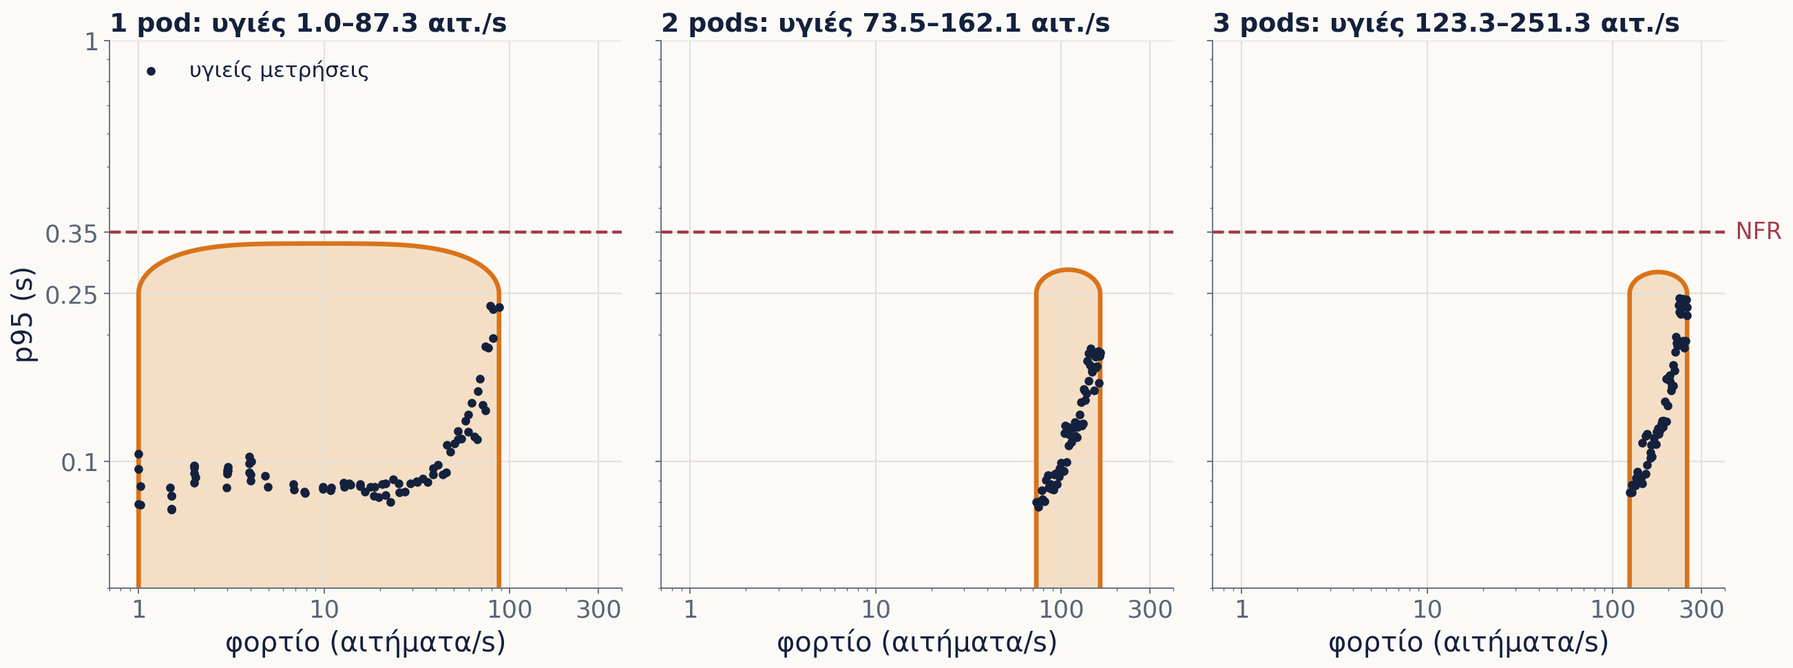
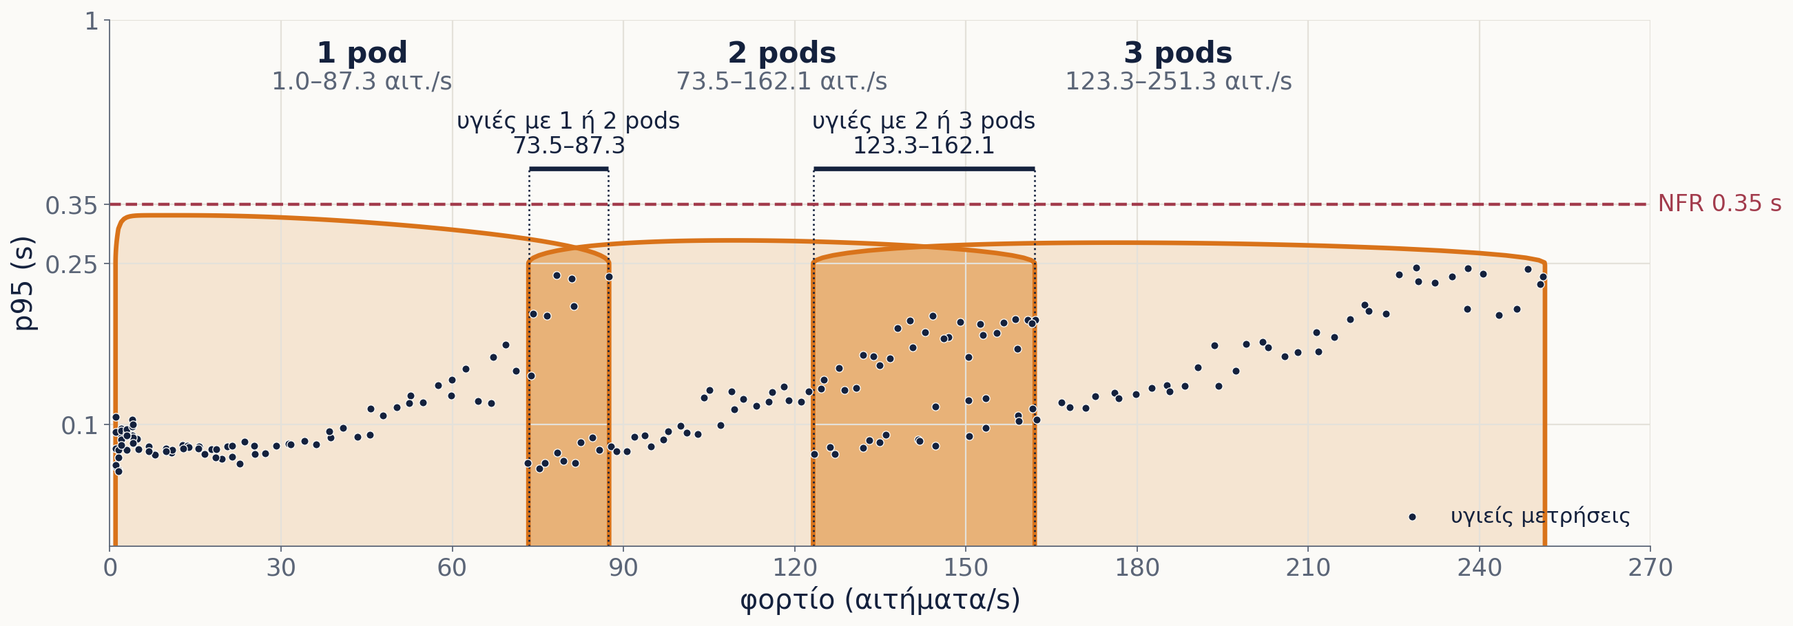
Study guide: theory for the defense (s12) and how each version is tested (s9.5); defense Q&A G7a (prompt injection); the SVM bands figure on one load axis with the overlaps shaded
- study_guide.md s12 (new): MAPE-K, queueing theory with the capacity numbers (1 pod breaks at ~83% CPU), OCSVM theory
  (novelty vs outlier, nu, SVDD, gamma as bias/variance) with an 8-point example worked by hand next to the Isolation
  Forest, ReAct / CodeAct / RAG, prompt injection, dead time and hysteresis, what the p-values say (one-sided, 1/70 the
  smallest possible), threats to validity; the glossary becomes s13 with 7 new terms.
- study_guide.md s9.5 (new): the 8 steps of checks for a new version and which version (v9-v14) passed which.
- defense_qa.md G7a (new): prompt injection through the logs; limited by the guards in code; not tested.
- svm_map.png: one panel, a linear load axis, the overlaps 73.5-87.3 and 123.3-162.1 rps shaded (the slide updated).
- design_decisions.md: the official thesis title next to the root README's "Multi-Agent Systems".
- archive/memory_tests_2026-11-09.sh: the optional memory experiment of 9/11, written then and never run.
- Worklog 14/11 and 17/11.

diff --git a/thesis_notes/figures/make_presentation_figures.py b/thesis_notes/figures/make_presentation_figures.py
@@ -6,7 +6,8 @@ Figures of the v14 presentation (2026-11-08): each one backs a design choice of 
                           why the NFRs are measured at the ingress
   if_vs_ocsvm.png         Isolation Forest (raw features) against the deployed One-Class SVM on the same 210 healthy
                           readings, along the load and along the latency of 1 pod: why the SVM
-  svm_map.png             what the SVM calls healthy for 1 / 2 / 3 pods (load x p95), with the training readings
+  svm_map.png             what the SVM calls healthy for 1 / 2 / 3 pods (load x p95) on one load axis, the overlaps of
+                          the bands shaded, with the training readings
   gamma_hills.png         what gamma is: the support vectors of 1 pod as hills along the load, their sum against the
                           threshold, for gamma 0.1 (2 wide hills) and 1.0 (11 narrow ones, 3 holes)
   gamma_choice.png        why gamma 0.1, both sides on 1 pod: holes in the band from gamma 0.2 up (A31), and the p95
@@ -47,6 +48,7 @@ NORMAL = ("eval_llm_20261108_1443", "eval_hpa_20261108_1527")
 
 INK, MUTED, BG, GRID = "#14213D", "#5B6577", "#FBFAF7", "#E4E1DA"
 AGENT, HPA, NFR_C, FILL = "#D9731A", "#3A6EA5", "#A23B4C", "#F4DFC6"
+OVERLAP = "#E8B278"   # healthy with either of two pod counts (svm_map.png): FILL's hue, darker
 PODS_C = {1: "#9DB4D3", 2: "#5F86B8", 3: "#2F5C94", 4: INK}
 
 plt.rcParams.update({
@@ -223,33 +225,48 @@ def fig_if_vs_ocsvm():
 
 # --- what the SVM calls healthy --------------------------------------------------------------------------------------
 def fig_svm_map():
-    loads = np.geomspace(0.7, 400, 260)
-    lats = np.geomspace(0.05, 1.0, 220)
+    """One panel, a common linear load axis: the three healthy regions drawn over each other, so the overlap of the
+    bands is seen (until 2026-11-14 three panels on a log axis, where it had to be read from the titles)."""
+    x_max, y_lo, y_hi = 270.0, 0.05, 1.0
+    loads = np.linspace(0.5, x_max, 540)
+    lats = np.geomspace(y_lo, y_hi, 220)
     L, P = np.meshgrid(loads, lats)
-    fig, axes = plt.subplots(1, 3, figsize=(16.6, 6.4), sharey=True)
-    for ax, n in zip(axes, (1, 2, 3)):
+    fig, ax = plt.subplots(figsize=(16.6, 6.0))
+    band, inside = {}, {}
+    for n in (1, 2, 3):
         grid = pd.DataFrame({"throughput": L.ravel(), "latency_p95": P.ravel(), "error_rate": 0.0, "replicas": float(n)})
         d = hm.decision(bundle, grid).reshape(L.shape)
-        ax.contourf(L, P, d >= 0, levels=[0.5, 1.5], colors=[FILL])
+        inside[n] = d >= 0
+        ax.contourf(L, P, inside[n], levels=[0.5, 1.5], colors=[FILL], alpha=0.75)
         ax.contour(L, P, d, levels=[0], colors=[AGENT], linewidths=3)
-        h = health[health["replicas"] == n]
-        ax.scatter(h["throughput"], h["latency_p95"], s=22, color=INK, zorder=3, label="υγιείς μετρήσεις")
-        ax.set_xscale("log")
-        ax.set_yscale("log")
-        ax.set_xlim(0.7, 400)
-        ax.set_ylim(0.05, 1.0)
-        ax.set_xticks([1, 10, 100, 300])
-        ax.set_xticklabels(["1", "10", "100", "300"])
-        ax.set_yticks([0.1, 0.25, 0.35, 1.0])
-        ax.set_yticklabels(["0.1", "0.25", "0.35", "1"])
-        lo, hi = bundle["bands"][n] if n in bundle["bands"] else (np.nan, np.nan)
         iv = thb.intervals(bundle, n)
-        ax.set_title(f"{n} pod{'s' if n > 1 else ''}: υγιές {iv[0][0]:.1f}–{iv[-1][1]:.1f} αιτ./s", fontsize=17)
-        ax.axhline(nfr.NFR_P95, color=NFR_C, ls="--", lw=2)
-        ax.set_xlabel("φορτίο (αιτήματα/s)")
-    axes[0].set_ylabel("p95 (s)")
-    axes[0].legend(loc="upper left", fontsize=14)
-    axes[2].text(420, nfr.NFR_P95, " NFR", color=NFR_C, va="center", fontsize=15)
+        band[n] = (iv[0][0], iv[-1][1])
+        ax.text(sum(band[n]) / 2, 0.76, f"{n} pod{'s' if n > 1 else ''}", ha="center", va="bottom", fontsize=19,
+                fontweight="bold")
+        ax.text(sum(band[n]) / 2, 0.75, f"{band[n][0]:.1f}–{band[n][1]:.1f} αιτ./s", ha="center", va="top", fontsize=16,
+                color=MUTED)
+    ax.scatter(health["throughput"], health["latency_p95"], s=26, color=INK, edgecolor=BG, linewidth=0.6, zorder=3,
+               label="υγιείς μετρήσεις")
+    for n in (1, 2):                                                               # the overlap of n and n + 1 pods
+        lo, hi = band[n + 1][0], band[n][1]
+        ax.contourf(L, P, inside[n] & inside[n + 1], levels=[0.5, 1.5], colors=[OVERLAP], zorder=1.5)
+        for x in (lo, hi):
+            ax.plot([x, x], [y_lo, 0.43], color=INK, lw=1.2, ls=":", zorder=2)
+        ax.plot([lo, hi], [0.43, 0.43], color=INK, lw=3, solid_capstyle="butt", zorder=4)
+        ax.text((lo + hi) / 2, 0.455, f"υγιές με {n} ή {n + 1} pods\n{lo:.1f}–{hi:.1f}", ha="center", va="bottom",
+                fontsize=15, linespacing=1.15)
+    ax.set_yscale("log")
+    ax.set_xlim(0, x_max)
+    ax.set_ylim(y_lo, y_hi)
+    ax.set_xticks(range(0, 271, 30))
+    ax.set_yticks([0.1, 0.25, 0.35, 1.0])
+    ax.set_yticklabels(["0.1", "0.25", "0.35", "1"])
+    ax.minorticks_off()
+    ax.axhline(nfr.NFR_P95, color=NFR_C, ls="--", lw=2)
+    ax.text(x_max, nfr.NFR_P95, " NFR 0.35 s", color=NFR_C, va="center", fontsize=15)
+    ax.set_xlabel("φορτίο (αιτήματα/s)")
+    ax.set_ylabel("p95 (s)")
+    ax.legend(loc="lower right", fontsize=14)
     fig.tight_layout()
     save(fig, "svm_map.png")
 

diff --git a/thesis_notes/study_guide.md b/thesis_notes/study_guide.md
@@ -661,6 +661,35 @@ Rare requests: none; every endpoint called in the window (14610 requests) is par
   τον κρίνει (κάθε ενέργεια STABLE, κανένα crash, τα σφάλματα ανακάμπτουν με restart, καμία μπαταρία), και ένα FAIL σταματά την
   καμπάνια.
 
+### 9.5 Πώς ελέγχεται μια νέα έκδοση πριν από την καμπάνια
+Κάθε έκδοση περνά από σκαλοπάτια, από τα φθηνά (χωρίς cluster, χωρίς LLM) στα ακριβά. Τα κριτήρια κάθε σκαλοπατιού γράφονται
+στο `design_decisions.md` **πριν** τρέξει ο έλεγχος.
+
+| # | Έλεγχος | Τι απαντά | Εργαλείο | Κλήσεις LLM |
+|---|---|---|---|---|
+| 1 | Unit tests (107) | κάνει κάθε κομμάτι αυτό που λέει; κόβουν οι φραγμοί τα λάθη που έκανε το LLM σε μετρημένα runs της φάσης 1; | `pytest 3-ai-agent/tests` | 0 (όλα mocked) |
+| 2 | Έλεγχοι του μοντέλου | 34 probes-εύρη, μονοτονία, ψευδείς αφυπνίσεις σε held-out· ο δηλωμένος κανόνας επιλογής του γ | `train_health_baseline.py` | 0 |
+| 3 | Replay offline | ο νέος detector, η επαλήθευση και τα ελάχιστα pods πάνω στις καταγεγραμμένες σειρές των προηγούμενων καμπανιών και επικυρώσεων, δίπλα στην προηγούμενη έκδοση | `replay_model.py`, `replay_v13.py` | 0 |
+| 4 | Ζωντανή επικύρωση του detector | φάσεις A–I (κανονικό, υπερφόρτωση, σπατάλη) σε dry-run, χωρίς agent: πιάνει κάθε φάση ανωμαλίας; ξυπνά ψευδώς στις κανονικές; | `detector_validation.sh` + `analyze_validation.py` | 0 |
+| 5 | Αξιολόγηση του prompt (v14) | παλιό και νέο prompt με το πραγματικό LLM σε 43 καταγεγραμμένες αφυπνίσεις, με mocked cluster | `prompt_eval.py` | ναι |
+| 6 | Smoke / πρώτος γύρος | ένα run ανά σενάριο: κάθε ενέργεια STABLE, κανένα crash, ανάκαμψη με restart, καμία μπαταρία | `smoke_gate.py` | ναι |
+| 7 | Καμπάνια | 4 + 4 runs ανά σενάριο, εναλλάξ με το HPA (§9.4) | `full_campaign.sh` → `compare_results.py`, `campaign_report.py` | ~120–200 |
+| 8 | Έλεγχος μετά | κάθε νούμερο ξαναϋπολογισμένο από τα CSV | Α34, 10/11 | 0 |
+
+Ποια έκδοση πέρασε από πού:
+
+| Έκδοση | Τι άλλαξε | Έλεγχος πριν από την καμπάνια | Καμπάνια (σφάλματα· κόστος agent έναντι HPA) |
+|---|---|---|---|
+| v9 | NFR στο ingress, ένα SVM | επικύρωση 23/10: 4/4 φάσεις (52–75 s), 0 ψευδείς | 23/10: 7/8· 71.5 έναντι 76.3 |
+| v10 | οι NFR μέσα στο μοντέλο, score ως απόσταση | replay (`replay_v10.md`)· επικύρωση 26/10: 4/4 (52–84 s), 0 | 26/10: 8/8· 72.3 έναντι 76.1 |
+| v11 | μονάδες από τις NFR, μόνη επιλογή το γ | replay· επικύρωση 27/10: 4/4 (52–75 s), 0 | 28/10: 10/10· 72.1 έναντι 76.0 |
+| v12 | probes-εύρη, 1 pod σε αδράνεια, γ 0.1 | 34/34 probes· replay σε 3 καμπάνιες· ζωντανοί έλεγχοι | 1/11: 8/8· 72.2 έναντι 76.4 |
+| v13 | detector και επαλήθευση μόνο με δεδομένα μετά την αλλαγή | replay: 113/113 σωστές ενέργειες STABLE· επικύρωση 3/11: 4/4, 0· smoke runs | καμία· μετρήθηκε ο v14 |
+| v14 | prompt, 2 εργαλεία παρατήρησης, όριο 60 s | prompt eval: σωστή ενέργεια 94.0% και στα δύο prompt, αποτυχίες μορφής 1 έναντι 5· πρώτος γύρος με gate | 8/11: 8/8· 71.6 έναντι 77.4 |
+
+**Τι συγκρίνεται δίκαια:** agent και HPA **μέσα στην ίδια καμπάνια** (ίδιο μηχάνημα, ίδια μέρα, εναλλάξ). Δύο εκδόσεις του agent
+μετρήθηκαν σε διαφορετικές μέρες, με διαφορετική ταχύτητα του παρόχου LLM, άρα η σύγκρισή τους δεν είναι ελεγχόμενη.
+
 ---
 
 ## 10. Χάρτης κώδικα (τι να διαβάσεις, με τη σειρά)
@@ -700,7 +729,141 @@ Rare requests: none; every endpoint called in the window (14610 requests) is par
 
 ---
 
-## 12. Γλωσσάρι
+## 12. Θεωρία που μπορεί να σου ζητήσουν
+Τα πλαίσια και οι όροι πίσω από τις επιλογές. Για το καθένα: η θεωρία, πού είναι στο σύστημα, και τι να προσέξεις. Οι
+αναφορές είναι για τη βιβλιογραφία της διπλωματικής.
+
+### 12.1 MAPE-K: πού ανήκει το σύστημα
+- **Θεωρία:** το μοντέλο του autonomic computing (Kephart & Chess, *The Vision of Autonomic Computing*, IEEE Computer, 2003).
+  Ένα σύστημα που διαχειρίζεται τον εαυτό του τρέχει έναν βρόχο τεσσάρων βημάτων πάνω σε κοινή γνώση. Στόχοι: self-healing,
+  self-optimizing, self-configuring, self-protecting.
+- **Στο σύστημα:**
+
+  | MAPE-K | Εδώ |
+  |---|---|
+  | **M**onitor | ο detector διαβάζει το Prometheus κάθε 10 s |
+  | **A**nalyze | το score του SVM· η έρευνα του agent με τα εργαλεία παρατήρησης |
+  | **P**lan | η απόφαση του LLM πάνω στα υπολογισμένα facts |
+  | **E**xecute | scale / restart, μέσα στους φραγμούς |
+  | **K**nowledge | ChromaDB, πίνακας χωρητικότητας (μέσα στο μοντέλο), πρόσφατες ενέργειες |
+
+  Η επαλήθευση κλείνει τον βρόχο: το αποτέλεσμα του Execute ξαναμπαίνει στο Monitor. Το scale είναι self-optimizing, το
+  restart self-healing.
+- **Πώς να το πεις:** «ένας βρόχος MAPE-K, όπου το Analyze και το Plan τα κάνει LLM, ενώ το Monitor, οι φραγμοί και η
+  επαλήθευση είναι κώδικας».
+
+### 12.2 Θεωρία ουρών: γιατί το latency σπάει απότομα
+- **Χρησιμοποίηση** ρ = λ / μ (ρυθμός αφίξεων / ρυθμός εξυπηρέτησης). Σε μία ουρά M/M/1 ο μέσος χρόνος απόκρισης είναι
+  W = S / (1 − ρ), με S τον χρόνο εξυπηρέτησης:
+
+  | ρ | W |
+  |---|---|
+  | 50% | 2 × S |
+  | 80% | 5 × S |
+  | 90% | 10 × S |
+  | 95% | 20 × S |
+
+  Αυτό είναι το «γόνατο» της καμπύλης χωρητικότητας (§4.7, `capacity.png`).
+- **Στα δικά μας νούμερα:** το Node τρέχει τη JavaScript σε ένα νήμα, άρα κάθε pod μοιάζει με μία ουρά. Στα 100 αιτ./s το
+  1 pod έκαιγε 0.82–0.83 πυρήνα, δηλαδή ~8.3 ms CPU ανά αίτημα (`capacity_discovery_log.csv`). Άρα μ ≈ 120 αιτ./s, και το
+  1 pod περνά το 0.35 s στα 100 αιτ./s με **ρ ≈ 0.83**, όχι στο 100%. Στο ασφαλές (95 αιτ./s) ήταν στα 0.75 πυρήνα.
+- **Γιατί σπάει πριν από το 100%:** για μία ουρά M/G/1 ο τύπος Pollaczek–Khinchine δίνει μέση αναμονή λ·E[S²] / (2(1 − ρ)):
+  μεγαλώνει με τη **διασπορά** του χρόνου εξυπηρέτησης, όχι μόνο με τον μέσο όρο. Η μίξη μας έχει μεγάλη διασπορά: το login
+  (bcrypt, ~71 ms) είναι το 10% των αιτημάτων και το ~70% της CPU, τα υπόλοιπα κοστίζουν λίγα ms. Ένα login μπροστά σε φθηνά
+  αιτήματα τα καθυστερεί όλα, γιατί το νήμα είναι ένα.
+- **Νόμος του Little:** L = λ × W (αιτήματα μέσα στο σύστημα = ρυθμός × χρόνος). Ισχύει για κάθε σταθερό σύστημα, χωρίς
+  υποθέσεις κατανομής (Little, 1961). Στα 57 αιτ./s με W 0.1 s είναι ~6 αιτήματα· στο cpuhog με W 1.4 s ~80.
+- **Ανοιχτό μοντέλο:** σε κλειστό μοντέλο το λ εξαρτάται από το W (οι χρήστες περιμένουν την απάντηση), άρα η υπερφόρτωση
+  ρίχνει μόνη της το φορτίο και κρύβεται (§5.1, coordinated omission).
+- **Γιατί p95 και όχι μέσος όρος:** στην ουρά η αναμονή χτυπά πρώτα την ουρά της κατανομής· ο χρήστης που περιμένει 1 s δεν
+  φαίνεται στον μέσο όρο (Dean & Barroso, *The Tail at Scale*, CACM, 2013).
+- **Τι να προσέξεις:** οι αφίξεις του k6 είναι σχεδόν ομοιόμορφες, όχι Poisson, και η εξυπηρέτηση δεν είναι εκθετική. Οι
+  τύποι εξηγούν τη **μορφή** της καμπύλης, όχι τις ακριβείς τιμές· γι' αυτό η χωρητικότητα μετρήθηκε.
+
+### 12.3 One-Class SVM: η θεωρία πίσω από το μοντέλο
+- **Novelty και outlier detection** (οι όροι του scikit-learn). Στο novelty detection εκπαιδεύεις σε καθαρά δεδομένα και ρωτάς
+  για **καινούρια** σημεία· αυτό κάνουμε. Στο outlier detection τα ανώμαλα σημεία είναι μέσα στα δεδομένα εκπαίδευσης. Το
+  OCSVM είναι ο κλασικός novelty detector· το Isolation Forest (Liu, Ting & Zhou, ICDM 2008) φτιάχτηκε για outliers: κόβει
+  ένα χαρακτηριστικό τη φορά, με κατώφλια μόνο μέσα στο εύρος των δεδομένων, άρα ένα νέο σημείο έξω από το εύρος ακολουθεί
+  το πιο ακραίο σημείο της εκπαίδευσης (§4.3).
+- **Η διατύπωση** (Schölkopf et al., *Estimating the Support of a High-Dimensional Distribution*, Neural Computation, 2001):
+  απεικονίζει τα δεδομένα σε χώρο χαρακτηριστικών και βρίσκει το υπερεπίπεδο που τα χωρίζει από την αρχή των αξόνων με το
+  μέγιστο περιθώριο. Η απόφαση είναι f(x) = Σᵢ αᵢ K(xᵢ, x) − ρ· μόνο τα support vectors έχουν αᵢ > 0.
+- **Kernel trick:** ο χώρος χαρακτηριστικών δεν υπολογίζεται ποτέ· αρκεί το K(x, y) = exp(−γ‖x − y‖²).
+- **Η ιδιότητα του ν:** πάνω όριο στο ποσοστό των δεδομένων εκπαίδευσης που μένουν έξω, κάτω όριο στο ποσοστό των support
+  vectors. Με ν 0.02 και 210 μετρήσεις: το πολύ ~4 έξω, τουλάχιστον ~4 support vectors (έχουμε 6). Το ν ορίστηκε από την
+  αρχή, δεν επιλέχθηκε με αναζήτηση: τα δεδομένα είναι φιλτραρισμένα, άρα δεν περιμένουμε ανώμαλα μέσα τους.
+- **Ισοδυναμία με SVDD** (Tax & Duin, Machine Learning, 2004): με RBF kernel (K(x, x) = 1 για κάθε x), το OCSVM είναι το ίδιο
+  με «τη μικρότερη σφαίρα που κλείνει τα δεδομένα» στον χώρο χαρακτηριστικών. Είναι ο πιο απλός τρόπος να το εξηγήσεις.
+- **Το γ ως bias και variance:** μικρό γ, φαρδιοί λόφοι, ομαλή και ανεκτική ζώνη (bias). Μεγάλο γ, στενοί λόφοι, τρύπες
+  ανάμεσα στα σημεία (variance, overfitting). Οι τρύπες του γ 0.2–1.0 είναι overfitting (`gamma_hills.png`).
+- **Επιλογή μοντέλου χωρίς ετικέτες ανωμαλιών:** τα probes είναι συνθετικές ετικέτες («αυτό πρέπει να είναι υγιές / ανώμαλο»),
+  και ο κανόνας επιλογής δηλώθηκε πριν από τα αποτελέσματα, ώστε να μη διαλέξουμε το μοντέλο που απλώς βγάζει τα καλύτερα
+  νούμερα (garden of forking paths).
+- **Ένα παράδειγμα με το χέρι** (8 υγιή σημεία: 1 pod στα 10 / 40 / 70 / 90 αιτ./s, 3 pods στα 130 / 180 / 220 / 250· είσοδοι
+  ln φορτίου και 100 × pods· γ 0.1, ν 0.25 για να φαίνονται οι αριθμοί):
+  - support vectors: (1, 10), (1, 90), (3, 130), (3, 250), με βάρη 0.547 / 0.548 / 0.455 / 0.449· ρ = 0.886·
+  - (1 pod, 40): ομοιότητα 0.825 και 0.936 με τα δύο του 1 pod, 0 με τα 3 pods (απόσταση² ≈ 200² στον άξονα των pods)·
+    άθροισμα 0.965 − 0.886 = **+0.079, υγιές**·
+  - (1 pod, 300): ομοιότητα 0.315 και 0.865· τα (3, 250) είναι σχεδόν ίδια στο φορτίο αλλά απέχουν 200 στα pods, άρα 0·
+    άθροισμα 0.646 − 0.886 = **−0.239, ανωμαλία** (score −1.78)·
+  - το Isolation Forest στα ίδια 8 σημεία στέλνει το (1 pod, 300) στο ίδιο φύλλο με το (1, 90) ή με το (3, 250), ανάλογα με
+    το ποιο χαρακτηριστικό κόψει πρώτα, και το βγάζει φυσιολογικό.
+
+### 12.4 LLM agents: ReAct, CodeAct, RAG
+- **ReAct** (Yao et al., ICLR 2023): σκέψη → ενέργεια → παρατήρηση, σε βρόχο. Αυτός είναι ο βρόχος του agent.
+- **CodeAct** (Wang et al., *Executable Code Actions Elicit Better LLM Agents*, ICML 2024): οι ενέργειες γράφονται ως κώδικας
+  Python αντί για JSON. Το `CodeAgent` του smolagents είναι αυτό. Η εναλλακτική είναι tool calling με JSON (Γ7 του
+  `defense_qa.md`).
+- **RAG** (Lewis et al., NeurIPS 2020): ανάκτηση σχετικών εγγράφων πριν από την απάντηση. Η μνήμη μας είναι RAG με
+  embedding το διάνυσμα εισόδου του μοντέλου υγείας, όχι embedding κειμένου (§6.9).
+- **Μη ντετερμινισμός:** ακόμη και με temperature 0 το ίδιο prompt μπορεί να δώσει άλλη απάντηση. Γι' αυτό η επιτυχία κρίνεται
+  από κώδικα (`run_outcome`), όχι από το κείμενο του LLM.
+- **Η αρχή του σχεδιασμού:** ό,τι πρέπει να ισχύει πάντα γίνεται κώδικας (φραγμοί, όρια, επαλήθευση)· το LLM μένει για την
+  κρίση (§11).
+
+### 12.5 Prompt injection
+- **Θεωρία:** direct injection είναι οδηγίες από τον χρήστη του LLM· **indirect** είναι οδηγίες κρυμμένες σε δεδομένα που
+  διαβάζει το LLM (Greshake et al., *Not What You've Signed Up For*, AISec 2023).
+- **Στο σύστημα:** το `get_kubernetes_logs` δείχνει τις σπάνιες αιτήσεις με το path όπως ήρθε (μόνο τα τμήματα με ψηφίο
+  γίνονται `/:id`) και παραδείγματα μηνυμάτων λάθους ως 240 χαρακτήρες. Ένας πελάτης μπορεί να γράψει κείμενο σε ένα URL.
+- **Τι το περιορίζει:** διαβάζεται μόνο σε αφυπνίσεις κατηγορίας Β (έρευνα)· οι ενέργειες είναι δεμένες σε κώδικα: σταθερό
+  namespace και deployment, 1–3 pods, ±2 ανά κλήση, cooldowns, restart μόνο αφού έτρεξαν και τα δύο εργαλεία παρατήρησης,
+  αποτυχημένο scale-down αναιρείται από κώδικα. Το χειρότερο: ένα περιττό scale μέσα στα όρια ή ένα rolling restart.
+- **Τι δεν έχει γίνει:** δεν έχει δοκιμαστεί. Απάντηση για την υποστήριξη: Γ7α του `defense_qa.md`.
+
+### 12.6 Autoscaling και έλεγχος
+- **Ο αλγόριθμος του HPA:** §8.
+- **Reactive και predictive:** και οι δύο μέθοδοι που συγκρίνουμε αντιδρούν σε ό,τι έχει ήδη συμβεί. Η αφύπνιση με πρόβλεψη
+  εξετάστηκε και απορρίφθηκε από τον χρήστη (1/11, Α31). Ο agent βλέπει την τάση του φορτίου μόνο στα ελάχιστα pods.
+- **Νεκρός χρόνος (dead time):** ένας reactive ελεγκτής δεν αντιδρά γρηγορότερα από το άθροισμα ανίχνευση (3 μετρήσεις, με
+  καθυστέρηση του παραθύρου του 1 λεπτού) + απόφαση (διάμεσος 4.5 s στον v14) + εκκίνηση pod. Αυτός είναι ο μηχανισμός της
+  κορυφής του p95 στο 1→2 (Α31).
+- **Υστέρηση (hysteresis):** οι επικαλυπτόμενες ζώνες του μοντέλου (73.5–87.3, 123.3–162.1 αιτ./s) είναι υστέρηση κατά του
+  flapping· το ίδιο κάνουν η stabilization window του HPA και τα cooldowns των εργαλείων.
+
+### 12.7 Τι λένε τα p-values σου
+Τα τεστ είναι στην §9.3. Τρία πράγματα ακόμα:
+- **Είναι one-sided.** Fisher για 8/8 έναντι 0/8: 1 / C(16, 8) = 1/12870 = 0.00008· το two-sided είναι 0.00016.
+- **Το 0.014 στο κόστος είναι το ελάχιστο δυνατό** με 4 + 4 (1/70): σημαίνει πλήρη διαχωρισμό, όχι «οριακή» σημαντικότητα.
+  Με 5 + 6 (v11) το ελάχιστο είναι 1/462 = 0.002, και αυτό βγήκε.
+- **Το p δεν λέει πόσο.** Το μέγεθος είναι −7.5% (5.8 replica-min). Και «όχι σημαντικό» δεν σημαίνει «ίδιο»: με n = 4 το
+  τεστ έχει μικρή ισχύ, άρα η παραβίαση NFR (27.5 έναντι 47.5 s) είναι αναπάντητη, όχι ίση.
+
+### 12.8 Απειλές εγκυρότητας
+Οι τέσσερις κατηγορίες της εμπειρικής τεχνολογίας λογισμικού (Wohlin et al., *Experimentation in Software Engineering*,
+Springer, 2012), με τα δικά μας όρια και τι κάναμε γι' αυτά:
+
+| Κατηγορία | Το όριο | Τι κάναμε |
+|---|---|---|
+| Εσωτερική (μετράμε αυτό που νομίζουμε;) | ένα μηχάνημα· επιβραδύνσεις του ingress· μπαταρία· ταχύτητα του παρόχου LLM | εναλλάξ runs, έλεγχος ρεύματος, `llm_ready` 3/3, sha256 κώδικα και μοντέλου, `*-INVALID` και επανάληψη |
+| Εξωτερική (γενικεύεται;) | μία εφαρμογή, ένα cluster, δύο τύποι βλάβης, συνθετικό φορτίο | δηλώνεται· οι βλάβες είναι κλασικές (εξάντληση πόρου, μπλοκαρισμένο νήμα) |
+| Κατασκευής (μετρά η μετρική την έννοια;) | ο «σωστός αριθμός pods» κρίνεται με τον πίνακα από τον οποίο βγαίνουν οι ζώνες· το log του cpuhog γράφει τη διάγνωση | το κόστος είναι ανεξάρτητο· το restart στηρίζεται και στο event-loop lag |
+| Συμπεράσματος (στέκει η στατιστική;) | n = 4 | ακριβή τεστ (§9.3, §12.7) |
+
+---
+
+## 13. Γλωσσάρι
 - **NFR** (non-functional requirement): απαίτηση για το *πώς* λειτουργεί η υπηρεσία (latency, διαθεσιμότητα, κόστος).
 - **SLO** (Service Level Objective): μετρήσιμος στόχος για μια NFR, εδώ p95 < 0.35 s και σφάλματα < 1%.
 - **p95:** ο χρόνος κάτω από τον οποίο τελειώνει το 95% των αιτημάτων.
@@ -717,3 +880,10 @@ Rare requests: none; every endpoint called in the window (14610 requests) is par
 - **Coordinated omission:** στο κλειστό μοντέλο, οι αργές απαντήσεις μειώνουν το φορτίο και κρύβουν το πρόβλημα.
 - **Replica-minutes:** pods × λεπτά· το κόστος.
 - **Intention to treat:** κάθε run που ξεκίνησε μετράει, και οι αποτυχίες δεν αντικαθίστανται.
+- **MAPE-K:** Monitor, Analyze, Plan, Execute πάνω σε κοινή Knowledge· ο βρόχος ενός αυτόνομου συστήματος (§12.1).
+- **Χρησιμοποίηση (ρ):** ρυθμός αφίξεων / ρυθμός εξυπηρέτησης· ο χρόνος απόκρισης μεγαλώνει σαν 1 / (1 − ρ) (§12.2).
+- **Νόμος του Little:** αιτήματα στο σύστημα = ρυθμός × χρόνος απόκρισης.
+- **SVDD:** η μικρότερη σφαίρα που κλείνει τα δεδομένα στον χώρο χαρακτηριστικών· με RBF kernel ίδιο με το OCSVM.
+- **CodeAct:** agent που γράφει τις ενέργειές του ως κώδικα (το `CodeAgent` του smolagents).
+- **Indirect prompt injection:** οδηγίες κρυμμένες σε δεδομένα που διαβάζει το LLM, π.χ. logs (§12.5).
+- **Νεκρός χρόνος:** ο χρόνος από την αλλαγή ως την πρώτη δυνατή αντίδραση ενός ελεγκτή.

diff --git a/thesis_notes/phase2_worklog.md b/thesis_notes/phase2_worklog.md
@@ -1072,3 +1072,42 @@
 - **Για τον χρήστη:** το `HF_TOKEN` του παλιού `.env` στο ιστορικό του `main` (GitHub) πρέπει να ανακληθεί.
 - **Δεν έτρεξαν** (περιμένουν το ΟΚ του χρήστη, ~58 κλήσεις Gemini): το `archive/memory_tests_2026-11-09.sh` (το τεστ 3–4
   του θα ήταν το πρώτο ζωντανό UNSTABLE του v14) και 2 runs cpuhog με ουδέτερη γραμμή log.
+
+### 10/11 βράδυ: η παρουσίαση σε 20 λεπτά, με σχήματα
+Ο χρήστης έδωσε τον τίτλο του θέματος («14 | Αυτόνομη διαχείριση πόρων συστημάτων με χρήση πρακτόρων»), είπε να μείνει το
+token προς το παρόν, και ζήτησε πρώτα τις διαφάνειες («σωστά σχήματα», όλο το σύστημα σε 20 λεπτά) και μετά τα πειράματα.
+- **Διαφάνειες** (Slides artifact «AIOps agent v14», έκδοση 14): 18 κύριες αντί για 23 (χρόνοι ανά διαφάνεια στις σημειώσεις
+  του εξωφύλλου) και 6 εφεδρικές μετά το κλείσιμο (φορτίο, IF έναντι SVM, τι κάνει το γ, η επιλογή του γ, τι διαβάζει το
+  LLM, ο θόρυβος της επαλήθευσης). Νέα σχήματα στη θέση κειμένου: ο βρόχος του detector με τα δύο «πίσω» (STABLE / UNSTABLE)
+  και το παράθυρο που ξεκινά από την αλλαγή· το δέντρο απόφασης Α / Β με τα τρία αποτελέσματα της έρευνας· το χρονικό του
+  stuck της 8/11 (40 + 9 + 20 + 41 = 110 s) με τα 4 βήματα του agent· η επαλήθευση ως ροή με τα 4 αποτελέσματα· το μοντέλο ως
+  είσοδοι → SVM → score· στην αρχιτεκτονική έκλεισε ο βρόχος (UNSTABLE → ξανά). Εξώφυλλο με τον τίτλο. Όρια και νούμερα
+  με τον έλεγχο της 10/11 (60 και 30 s στο 1→2, το 34% / 66% του κόστους, το log του cpuhog, τα «σωστά pods», το HPA
+  χωρίς restart).
+- **`defense_qa.md` Α4** και η σημείωση του ελέγχου στο `design_decisions.md`: με τον πραγματικό τίτλο.
+- **Τα πειράματα δεν ξεκίνησαν:** στις 20:42 το laptop ήταν σε μπαταρία (30%, 47 λεπτά)· θέλουν ρεύμα και ~3 ώρες.
+
+
+### 14/11: το σχήμα των ζωνών δείχνει την επικάλυψη
+Ο χρήστης, για τη διαφάνεια «Τι έμαθε το SVM: μία ζώνη ανά αριθμό pods»: «το θέλω καλύτερα, να φαίνεται ότι επικαλύπτεται».
+- **`svm_map.png`** (`make_presentation_figures.fig_svm_map`): ένα πλαίσιο αντί για τρία, με κοινό γραμμικό άξονα φορτίου
+  (0–270 αιτ./s)· οι τρεις υγιείς περιοχές η μία πάνω στην άλλη, οι δύο επικαλύψεις (73.5–87.3 και 123.3–162.1 αιτ./s)
+  σε σκούρο τόνο με ετικέτα «υγιές με N ή N+1 pods». Στον λογαριθμικό άξονα των τριών πλαισίων η επικάλυψη διαβαζόταν
+  μόνο από τους τίτλους. Κόστος: το χαμηλό άκρο του 1 pod (1–4 αιτ./s) δεν ξεχωρίζει πια· το όριο 1.0 είναι στην ετικέτα.
+- **Διαφάνεια** (Slides artifact «AIOps agent v14», έκδοση 23): το νέο σχήμα, η λεζάντα και οι σημειώσεις ομιλητή (οι δύο
+  ομάδες κουκκίδων στο ίδιο φορτίο: τα N pods κοντά στο όριο, τα N+1 με άνεση).
+
+### 17/11: θεωρία και έλεγχος εκδόσεων στον οδηγό μελέτης
+Ο χρήστης, προετοιμάζοντας την παρουσίαση της Παρασκευής: «τι άλλο πρέπει να ξέρω από θεωρία;» και «πώς κάνω το testing για
+κάθε version;».
+- **`study_guide.md` §12 (νέα), «Θεωρία που μπορεί να σου ζητήσουν»:** MAPE-K (Kephart & Chess 2003) με την αντιστοίχιση στο
+  σύστημα· θεωρία ουρών (ρ, M/M/1, Pollaczek–Khinchine, Little, tail latency) με τα νούμερα της χωρητικότητας· η θεωρία του
+  OCSVM (novelty / outlier, Schölkopf 2001, ν, SVDD, γ ως bias / variance) με ένα παράδειγμα 8 σημείων λυμένο με το χέρι,
+  δίπλα στο Isolation Forest· ReAct, CodeAct, RAG· prompt injection· reactive / predictive, νεκρός χρόνος, υστέρηση· τι λένε
+  τα p-values (one-sided, το 0.014 = 1/70 ελάχιστο δυνατό)· απειλές εγκυρότητας (Wohlin 2012). Το γλωσσάρι έγινε §13, με 7
+  νέους όρους.
+- **`study_guide.md` §9.5 (νέα):** τα 8 σκαλοπάτια ελέγχου μιας νέας έκδοσης και ποια έκδοση (v9–v14) πέρασε από πού.
+- **`defense_qa.md` Γ7α (νέα):** prompt injection μέσω των logs. Η επιφάνεια υπάρχει (το path μιας σπάνιας αίτησης φτάνει
+  στο LLM όπως ήρθε, εκτός από τα τμήματα με ψηφίο)· την περιορίζουν οι φραγμοί σε κώδικα· δεν έχει δοκιμαστεί.
+- **Διόρθωση προς τον χρήστη:** στη συζήτηση είχα πει μ ≈ 1 / 10 ms = 100 αιτ./s ανά pod. Με τη μετρημένη CPU ανά αίτημα
+  στα 100 αιτ./s (8.3 ms) είναι μ ≈ 120, και το 1 pod σπάει με ρ ≈ 0.83· ο οδηγός έχει το σωστό.

diff --git a/thesis_notes/design_decisions.md b/thesis_notes/design_decisions.md
@@ -2898,7 +2898,7 @@ tag `v14-campaign` (`a46ea82`)· οι αλλαγές παρακάτω είναι
      στα 43 rps, 1–3 λεπτά αργότερα. Αυτό το κομμάτι δεν κοστίζει σε latency (p95 0.07–0.09 s και στους δύο).
    - Στα 3.8 είναι και 0.5 από το πήγαινε-έλα του HPA στο πάγωμα των 18:15 (2 replica-min σε ένα run).
 
-**Ο τίτλος «Multi-Agent Systems»** (README της ρίζας): το σύστημα έχει έναν LLM agent. Απάντηση στο `defense_qa.md` Α4.
+**Ο τίτλος** (θέμα 14, «Αυτόνομη διαχείριση πόρων συστημάτων με χρήση πρακτόρων»· στο README της ρίζας «Multi-Agent Systems»): το σύστημα έχει έναν LLM agent. Απάντηση στο `defense_qa.md` Α4.
 
 **Ασφάλεια:** το ιστορικό του `main` στο GitHub έχει ένα `.env` με `HF_TOKEN` (commit `1695e70`· είδαμε μόνο το όνομα του
 κλειδιού). Το token πρέπει να ανακληθεί στο Hugging Face από τον χρήστη.
